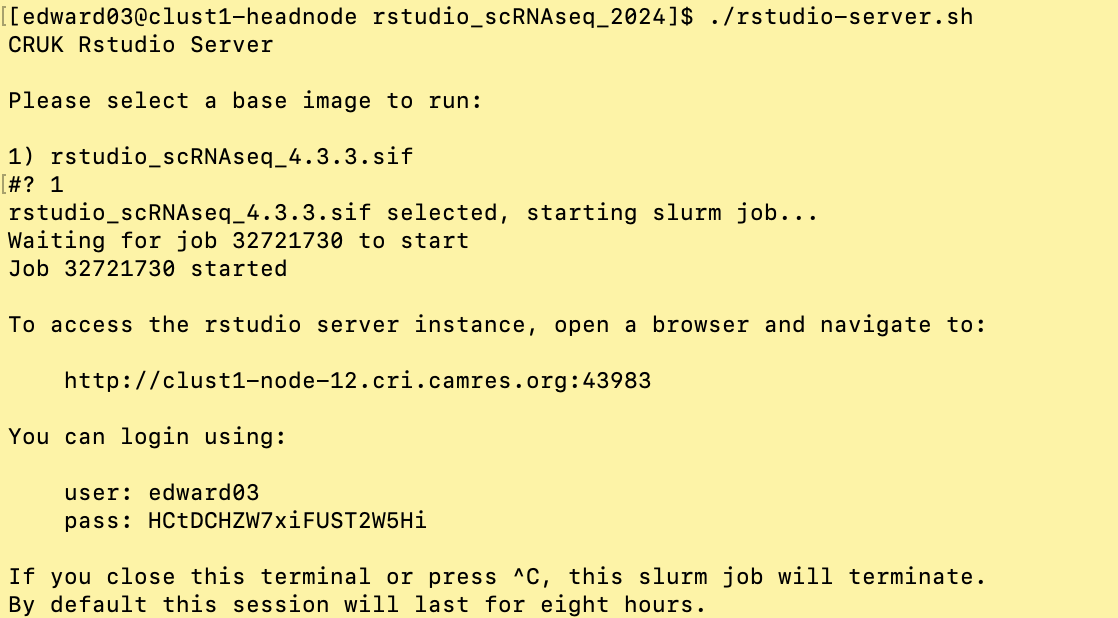
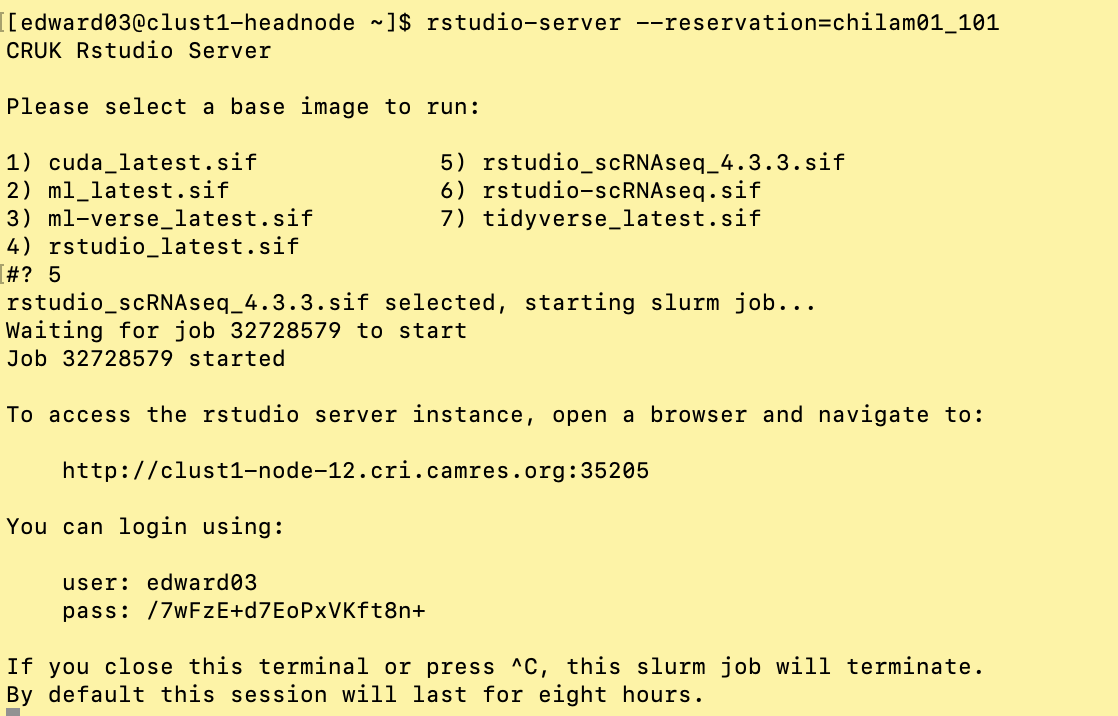
fixing server access messages

diff --git a/Server.md b/Server.md
@@ -5,9 +5,9 @@
 To start the RStudio server use the following command:
   
 
-__**scripts/rstudio-server.sh**__
+__**rstudio-server --reservation=chilam01_101**__
 
-Select option 1 when prompted.
+Select option 5 (rstudio_scRNAseq_4.3.3.sif) when prompted.
 
 This will send a job to the cluster to start the RStudio server with 8 cores and
 32 Gigabytes of memory. Once the job starts you will get a message like this:
